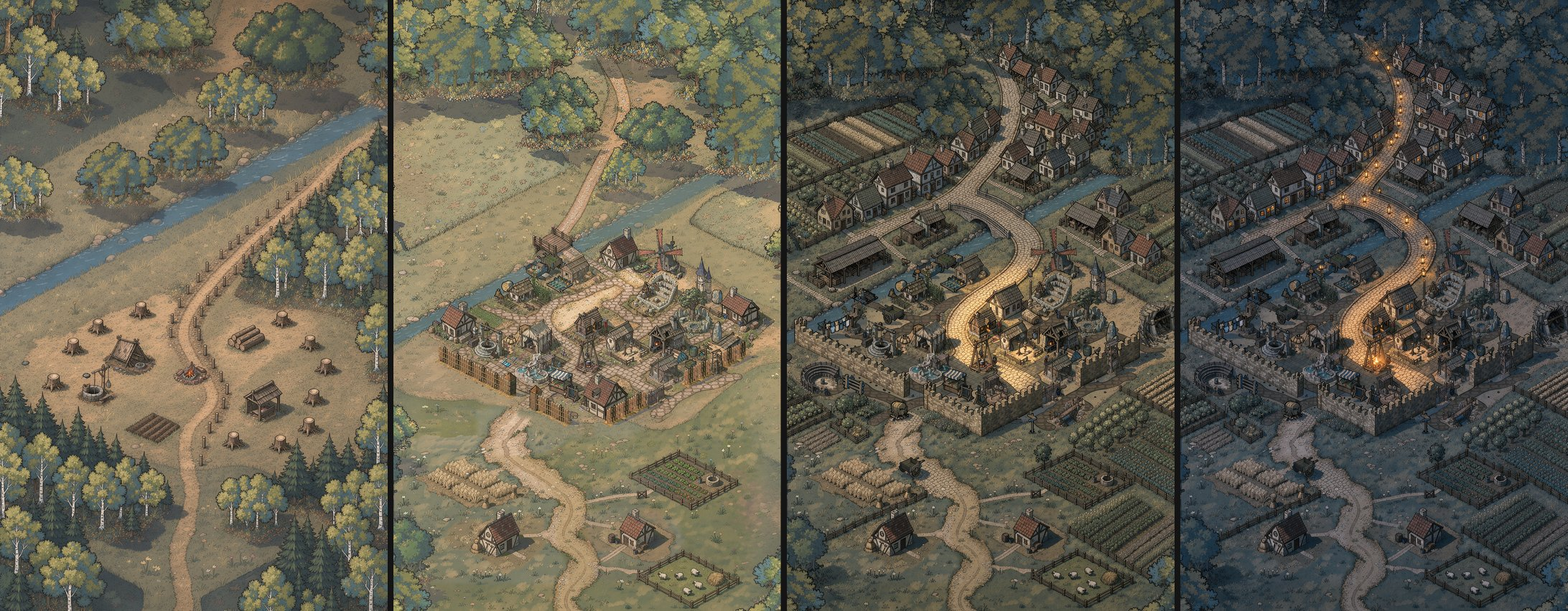
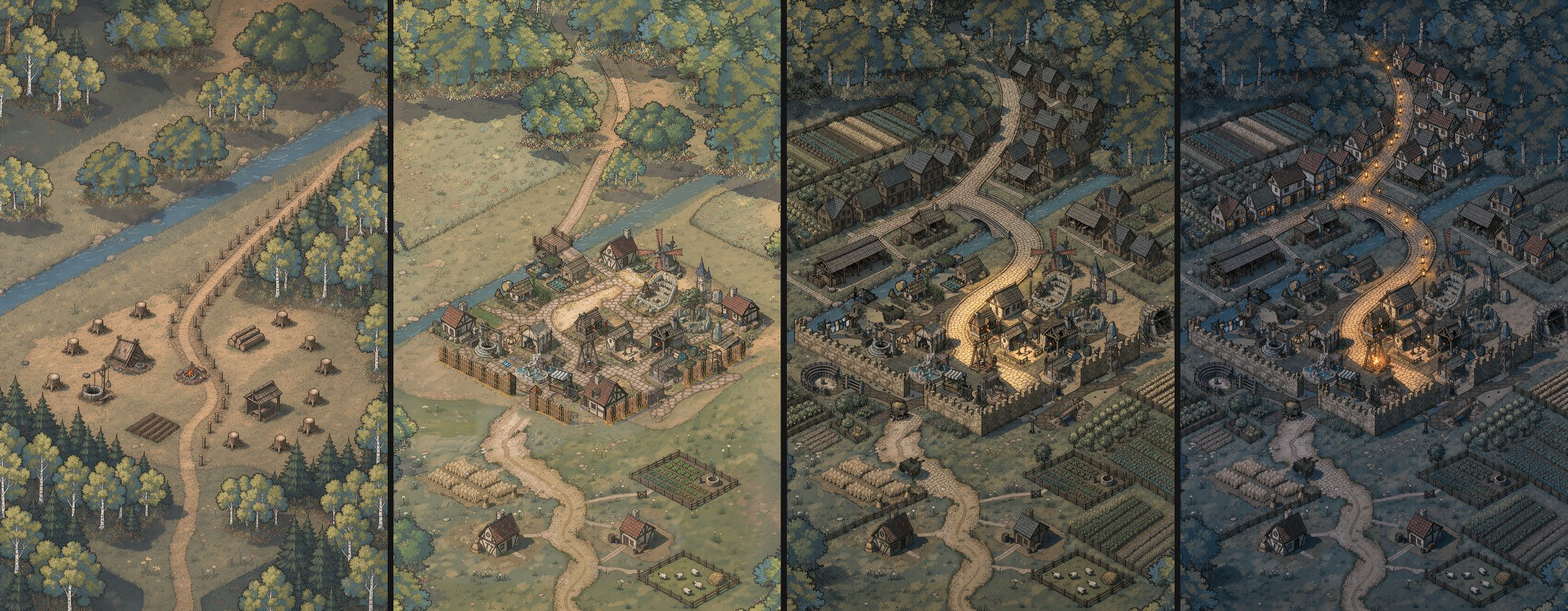
docs(direction): calm filler on the tier 12 target, player-building rules
Claude-Session: https://claude.ai/code/session_016PyBasSaA7JHphNbVuRrEY

diff --git a/scripts/direction/retouch.py b/scripts/direction/retouch.py
@@ -50,6 +50,11 @@ T12B = ("Image 1 is the town: keep its camera, every building, the walls, the ga
 for i in (1, 2):
     DAY[f"r2_t6_{i}"] = (T6B, (OUT / "r_t6_1.png",), 71600 + i)
     DAY[f"r2_t12_{i}"] = (T12B, (OUT / "r_t12_3.png",), 71700 + i)
+T12C = ("Image 1 is the town: keep its camera and composition. Keep exactly as they are: everything inside the walls, the walls, the gate, the windmill, the towers, the arena, the street, the bridge, the river, the two red-roofed cottages and the fenced plots at the bottom. "
+        "Change only the added neighbourhood houses outside the walls and above the river: repaint them as quiet background houses with slate grey or dark thatch roofs and dull muted brown walls, no red tiles, no white walls, no signs, no flags, little inner detail, low and simple. "
+        "They read a clear step darker and calmer than the buildings inside the walls. No house stands in front of the windmill, the towers or the arena. "
+        "Warm the daylight on the old town inside the walls and on its fire square, so it is clearly the brightest and most colourful area; the street above the bridge is calmer than the square.")
+DAY["r3_t12_1"] = (T12C, (OUT / "r2_t12_2.png",), 71801)
 
 
 def go(items, label):

diff --git a/scripts/direction/target_images.py b/scripts/direction/target_images.py
@@ -5,7 +5,7 @@ import pathlib
 from PIL import Image
 
 D = pathlib.Path(__file__).resolve().parent.parent.parent / "docs/designs/village/direction"
-PICKS = {"t1-jour": "r_t1_3", "t6-jour": "r2_t6_1", "t12-jour": "r2_t12_2", "t12-nuit": "r_t12n_1"}
+PICKS = {"t1-jour": "r_t1_3", "t6-jour": "r2_t6_1", "t12-jour": "r3_t12_1", "t12-nuit": "r_t12n_1"}
 ims = []
 for name, src in PICKS.items():
     im = Image.open(D / f"scratch/paint/{src}.png").convert("RGB")

diff --git a/docs/designs/village/direction/target.md b/docs/designs/village/direction/target.md
@@ -8,7 +8,7 @@ Une seule longue rue en S monte l'écran, de la porte sud jusqu'à la forêt, en
 |---|---|---|
 | 1, jour | `img/cible-t1-jour.jpg` | `r_t1_3` |
 | 6, jour | `img/cible-t6-jour.jpg` | `r2_t6_1` |
-| 12, jour | `img/cible-t12-jour.jpg` | `r2_t12_2` |
+| 12, jour | `img/cible-t12-jour.jpg` | `r3_t12_1` |
 | 12, nuit | `img/cible-t12-nuit.jpg` | `r_t12n_1` |
 
 Les quatre côte à côte : `img/cible-planche.jpg`. Le plan vu de dessus et le détail de A : `directions.md`.
@@ -30,12 +30,34 @@ Les quatre côte à côte : `img/cible-planche.jpg`. Le plan vu de dessus et le 
 
 Le coin verrouillé reste : porte sud, L de mur, route, champ, chaumières et enclos. On ajoute autour sans repeindre.
 
+## Les bâtiments du joueur d'abord
+
+Demandé par Guillaume le 04/11. Les bâtiments du joueur ne sont pas repeints : c'est le remplissage qui se calme.
+
+11. **Couleur** : le remplissage a des toits d'ardoise ou de chaume sombre et des murs éteints. La tuile rouille et les accents vifs sont réservés au joueur, sauf dans le coin verrouillé. À vérifier sur les sprites réels.
+12. **Taille** : une maison de remplissage ne dépasse pas 2/3 de la hauteur du bâtiment voisin du joueur. Chiffre à calibrer. Formes simples et basses.
+13. **Détail** : moins de détails intérieurs, ni enseigne ni drapeau. Le trait garde la même épaisseur, comme le veut la bible.
+14. **Place** : un parvis dégagé devant chaque bâtiment du joueur. La rue mène à ses portes, le remplissage donne sur les ruelles.
+15. **Mouvement** : fumée, drapeaux et ailes sur les bâtiments du joueur, remplissage presque immobile.
+16. **Nuit** : vraies lumières chez le joueur, petites fenêtres ailleurs.
+17. **Contrôle** : sur la vignette floutée au 1/8, les bâtiments du joueur ressortent, pas seulement le coeur.
+
+## Ce que le jeu doit aussi montrer
+
+Tiré du doc « ce que les jeux nous apprennent ».
+
+18. **Stade lisible de loin** : un stade se reconnaît au zoom du palier 12, sans lire de chiffre. Les échelles de bâtiments sont verrouillées : c'est un contrôle sur les bandes de paliers, et un écart se signale à Guillaume.
+19. **Effets réservés aux moments forts** : une évolution, oui. Un effet permanent qui décore l'écran, non.
+20. **Découvertes cachées, en option** : par exemple, un espace fermé fait toujours pousser un jardin.
+
 ## Ce que les images montrent mal
 
-Vu par mara et sur les images. Deux passes de reprise sont faites : le reste passe par les règles, sans autre peinture.
+Vu par mara et sur les images. Trois passes de reprise sont faites sur le palier 12 de jour : le reste passe par les règles, sans autre peinture.
 
-- **Bâtiments, palier 12 de jour** : mara en lit 12 à 14 sur 21 environ, contre presque tous aujourd'hui. Le moulin, la tour et l'arène se perdent sous les maisons neuves. **Ne pas copier ce placement : la règle 1 prime.**
-- **Clarté, palier 12 de jour** : la rue pavée jaune est plus claire que le feu, et le jour est plus sombre et plus vert qu'aujourd'hui. **Suivre la règle 5, garder la chaleur du village actuel.**
+- **Bâtiments, palier 12 de jour** : mara en lit environ 19 sur 21 sur l'image retenue. Ce compte n'est pas fiable : sur l'image d'avant, mara en a lu 12 à 14 lors d'une relecture, puis environ 19 lors de la suivante. **`check` mesurera, la règle 1 prime.**
+- **Clarté, palier 12 de jour** : la rue pavée dorée est plus claire que le feu, et l'image est un peu monochrome. **Suivre la règle 5, garder la chaleur du village actuel.**
+- **Chaumières du coin, palier 12 de jour** : elles ont perdu leur toit rouge. **Ne pas copier : le coin verrouillé garde ses sprites.**
+- **Nuit** : elle vient de l'image de jour précédente, ses maisons de quartier ont encore des toits rouges. **Pour le remplissage, suivre les règles 11 et 16.**
 - **Palier 6** : la rue en S se voit surtout au-dessus de la palissade, le village reste un bloc fermé, et la pente entre la palissade et la rivière reste vide. **Suivre les règles 2 et 6.**
 - **Nord du palier 12** : maisons trop serrées et trop semblables. **Suivre la règle 7.**
 - **Coin, palier 12** : de grands champs ont été ajoutés sous le mur à droite. **Ne pas les reprendre : le champ et l'enclos du coin suffisent.**
@@ -44,16 +66,21 @@ Vu par mara et sur les images. Deux passes de reprise sont faites : le reste pas
 ## Ce que chaque piste en prend
 
 **LAYOUT**
-- Le tracé de la rue, le plan de `directions.md` et les règles 1, 2, 5, 6 et 7.
+- Le tracé de la rue, le plan de `directions.md` et les règles 1, 2, 5, 6, 7 et 14.
 - La carte grandit vers le haut, d'environ 100 tuiles. Ce chiffre est une estimation à mesurer.
 - `lisiere` et `pieds` peuvent reculer **une fois**, et ils sont reverrouillés sur un rendu que Guillaume valide (sa réponse du 04/11). Le coin de la porte sud ne bouge pas.
 - À surveiller : une rue droite en colonne, où chaque bâtiment cache celui du dessus.
 
 **GROWTH**
-- Les règles 3, 4, 6, 7, 8 et 9 : ce qui apparaît à chaque palier, la forêt, les quartiers, les champs et les alentours.
+- Les règles 3, 4, 6, 7, 8, 9, 11, 12, 13 et 17 : ce qui apparaît à chaque palier, la forêt, les quartiers, les champs, les alentours et le calme du remplissage.
 - Les maisons doivent varier, et le palier 1 reste presque nu.
+- La règle 20, en option.
 
 **POLISH**
-- Les règles 5 et 10 : la lumière du jour et de la nuit.
+- Les règles 5, 10 et 16 : la lumière du jour et de la nuit.
 - `img/cible-t12-nuit.jpg` est la référence la plus sûre de la série : mara y voit le noyau chaud dominer sans filtre bleu.
 - La nuit de l'atelier n'a aujourd'hui presque aucune fenêtre allumée (`handoff.md`).
+
+**LIFE et AUDIT**
+- LIFE : les règles 15 et 19.
+- AUDIT : les règles 17 et 18 dans sa liste de contrôles.

diff --git a/docs/designs/village/direction/summary-1.md b/docs/designs/village/direction/summary-1.md
@@ -7,13 +7,14 @@
 - Rendus du village actuel dans `img/avant-*.jpg`.
 - Trois directions en texte, auditées par mara, theo et env : `directions.md`.
 - 24 essais Klein et 24 peintures FLUX 3 Image : `img/planche-klein.jpg`, `img/planche-flux3.jpg`.
-- Ton choix : direction A, reprise. 18 images de plus en deux passes, surtout pour le palier 1.
-- `target.md` : 10 règles, les défauts à ne pas copier, ce que prennent LAYOUT, GROWTH et POLISH.
+- Ton choix : direction A, reprise. 19 images de plus, surtout pour le palier 1, dont une troisième passe sur le palier 12 de jour à ta demande : remplissage calmé.
+- `target.md` : 20 règles, dont celles qui font ressortir tes bâtiments, les défauts à ne pas copier, ce que prend chaque piste.
 - Originaux et rendus archivés dans `~/bati-archives/2026-11-04-direction-fin.tgz`.
 
 ## Pas fait, et pourquoi
 
-- **Palier 12 de jour pas au niveau de la règle 1** : mara y lit 12 à 14 bâtiments sur 21, moins que l'image d'avant la reprise (environ 19, autre estimation). La rue y est plus claire que le feu. Deux passes sont faites, la limite du prompt : c'est écrit dans `target.md`, et la règle prime sur l'image.
+- **Palier 12 de jour, bâtiments non mesurés** : mara en lit environ 19 sur 21, mais son compte a varié de 12-14 à 19 sur la même image. `check` tranchera avec LAYOUT. La rue y est encore plus claire que le feu.
+- **Palier 12 de nuit pas repeint** : ses maisons de quartier gardent des toits rouges. La règle 11 prime sur l'image.
 - **Palier 6** : les maisons demandées le long de la rue ne sont pas venues.
 - **`check` et bandes de paliers avant/après** : aucun fichier de l'appli n'a bougé, le look du jeu est identique.
 - **Typecheck et bundle** : seuls des docs et des scripts de `scripts/direction/` ont changé.
@@ -21,10 +22,10 @@
 
 ## Chiffres
 
-FLUX : 3,27 $ sur 5 $ (Klein 0,26 $, FLUX 3 Image 3,01 $). Registre : 108,12 $ sur 140 $. Sous-agents : 8 sur 150. Sommet : voir `git log origin/track-direction`.
+FLUX : 3,34 $ sur 5 $ (Klein 0,26 $, FLUX 3 Image 3,08 $). Registre : 108,19 $ sur 140 $. Sous-agents : 9 sur 150. Sommet : voir `git log origin/track-direction`.
 
 ## Pour toi
 
-1. **Regarde `img/cible-planche.jpg`.** Si le palier 12 de jour te gêne, `flux3_A_t12_v2` (dans l'archive) garde plus de bâtiments, mais ses champs sont plus vifs. Il suffit de le dire.
+1. **Regarde `img/cible-planche.jpg`.** Si le palier 12 de jour te gêne, `r2_t12_2` et `flux3_A_t12_v2` sont dans l'archive. Il suffit de le dire.
 2. **Les crops** : tu as dit oui. LAYOUT te montrera le rendu avant de les reverrouiller.
 3. LAYOUT peut démarrer, avec GROWTH étapes 1 à 3 à côté.

diff --git a/docs/designs/village/direction/progress.md b/docs/designs/village/direction/progress.md
@@ -7,3 +7,4 @@
 - 04/11 D6 page de choix publiée, `checkpoint.md`. **Suite** : dès la réponse de Guillaume, D7 (`target.md`, images choisies dans `img/`, depuis `scratch/paint/` ou `~/bati-archives/2026-11-04-direction.tgz`), puis D8.
 - 04/11 D7 choix de Guillaume : A, à reprendre. 18 images en deux passes, 1,33 $, piste à 3,27 $. `target.md` et `img/cible-*.jpg`. Relecture unique de mara, défauts écrits dans `target.md`.
 - 04/11 D8 piste fermée, `scratch/` archivé dans `~/bati-archives/2026-11-04-direction-fin.tgz`.
+- 04/11 À la demande de Guillaume : règles 11 à 20 ajoutées à `target.md`, palier 12 de jour repeint avec un remplissage calme (`r3_t12_1`, 0,07 $), piste à 3,34 $. Archive refaite.
